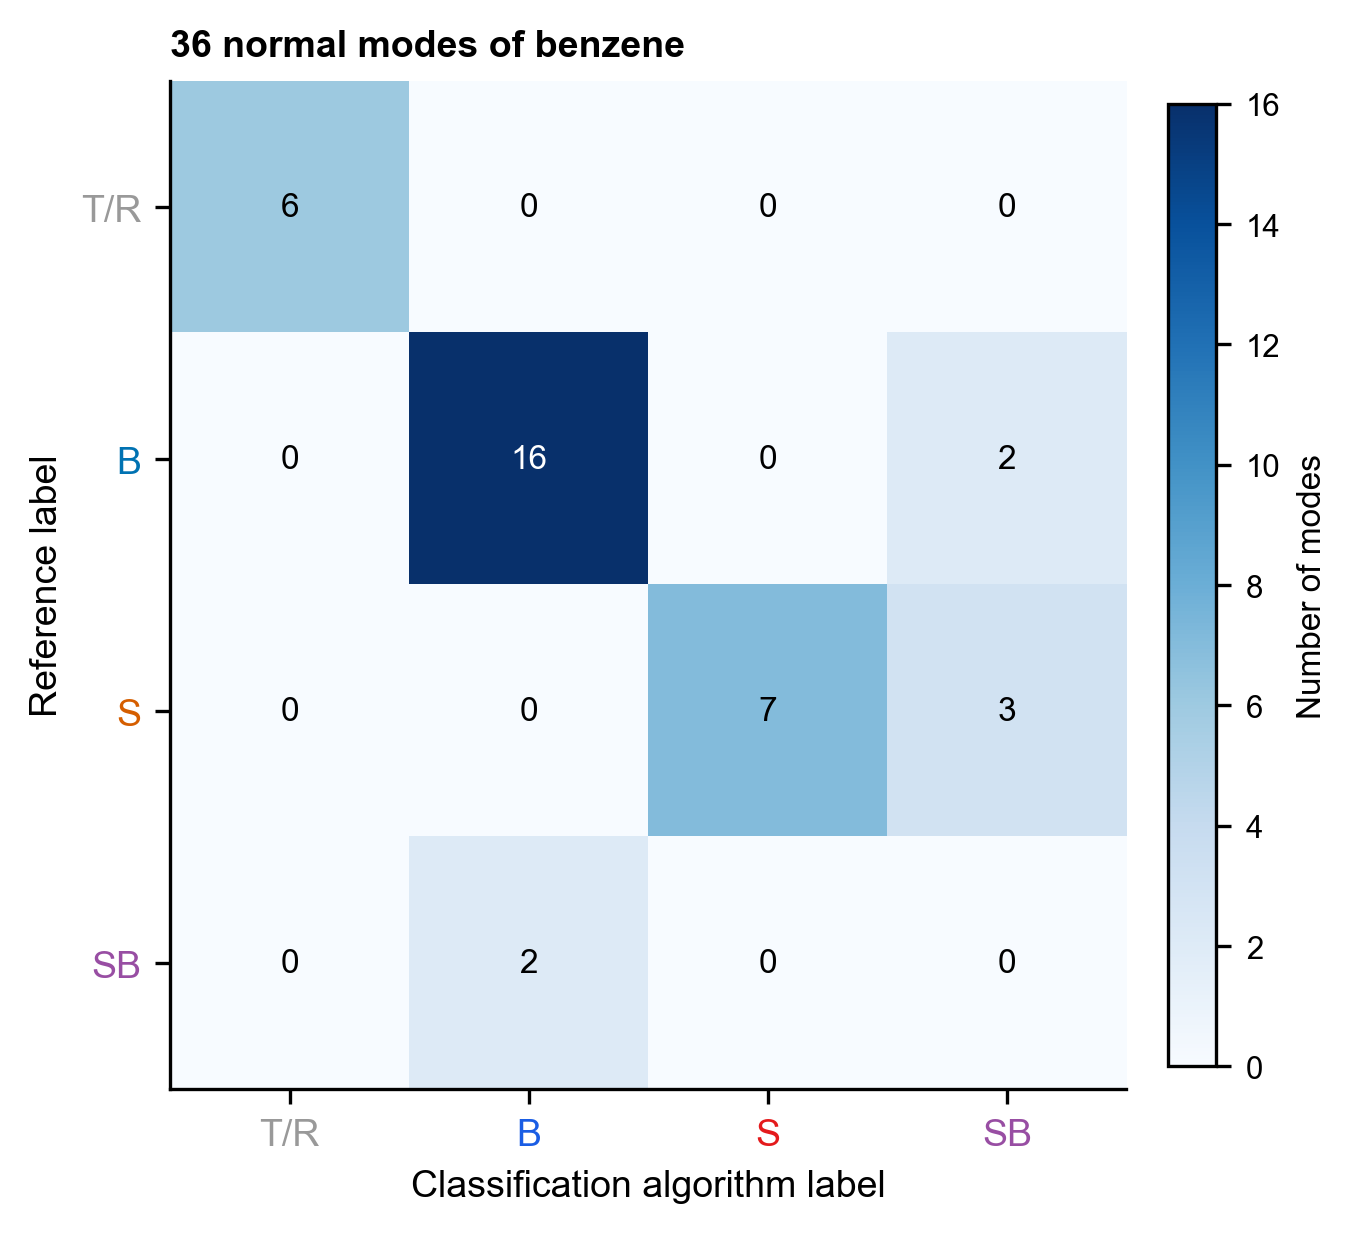
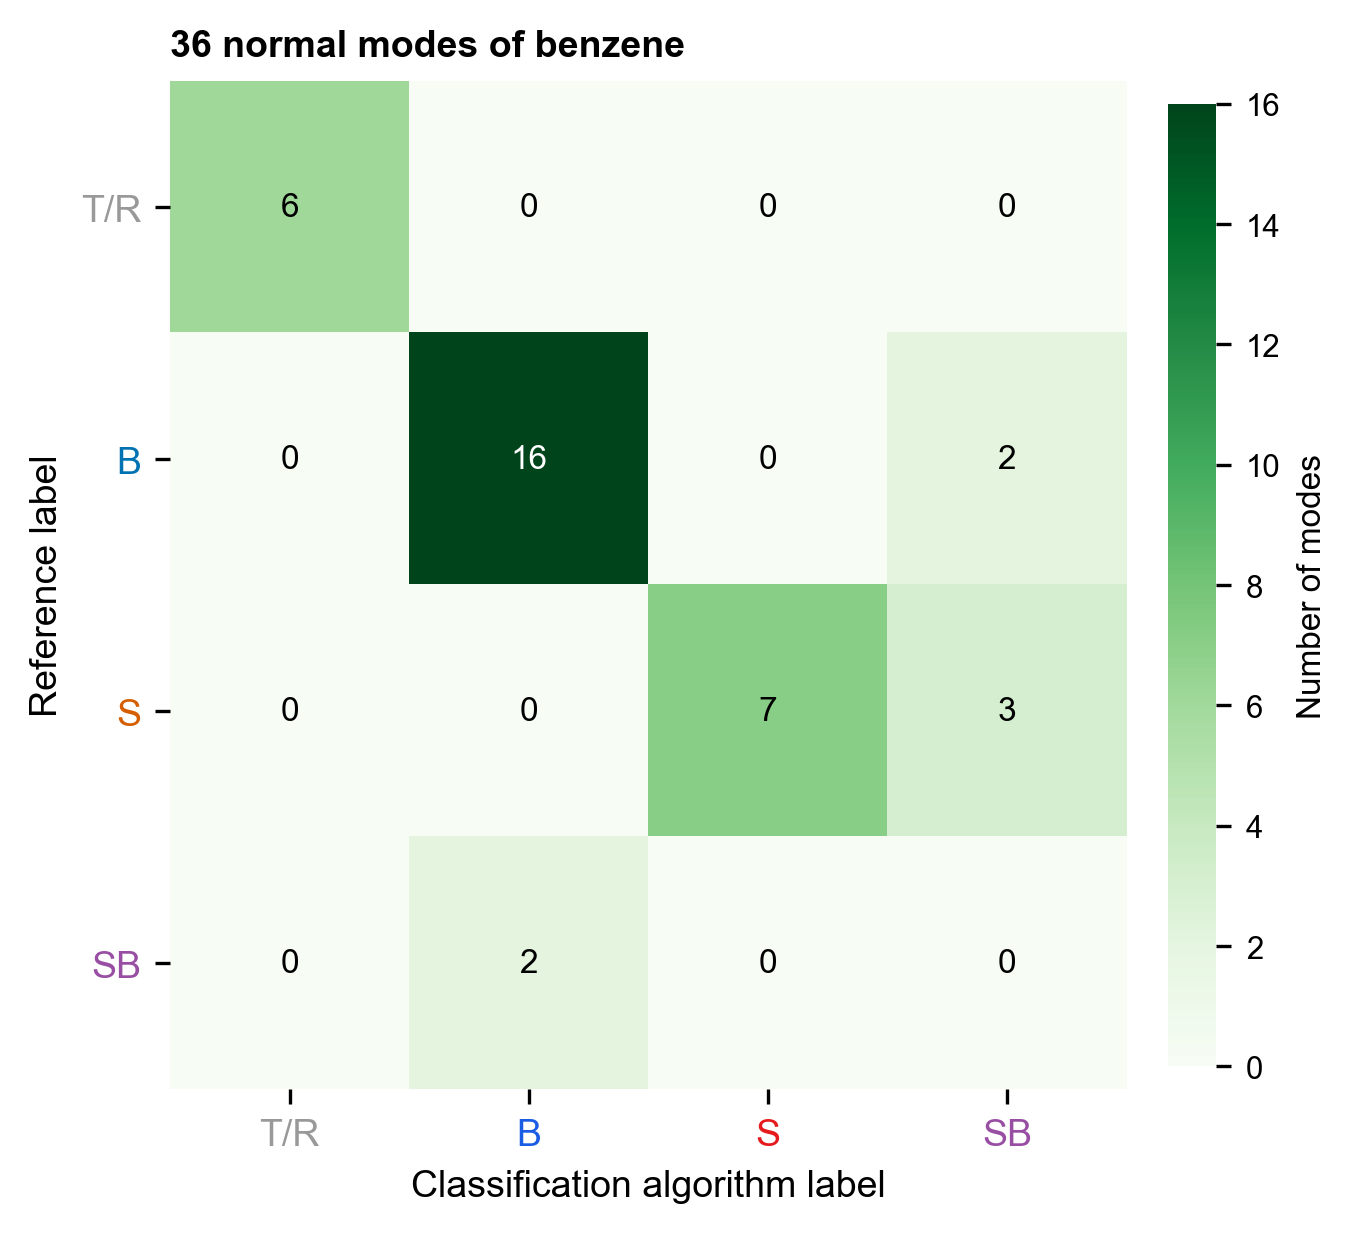
Switch confusion-matrix heatmap to green cmap; drop plot/colorbar borders
"Blues" at high cell values (#2070b4/#08306b) was nearly identical to the
bending category's own blue, used for tick labels on the SAME heatmap --
a dark cell for any high-count category risked being misread as "bending."
Green is unclaimed by any category color, so it can't collide.

Also removes the outer axes frame and colorbar outline on both confusion-
matrix figures (fig:confusion, fig:benzeneconfusion) per author request --
the cell grid itself already delineates the matrix.

Changed region(s): [[0.1237, 0.0616, 0.8969, 0.8938], [0.866, 0.8629, 0.8969, 0.8938]]

diff --git a/src/figures.py b/src/figures.py
@@ -174,7 +174,14 @@ COLORS = {
     "sens_accuracy": "#56B4E9",   # sky blue  -- accuracy curve, fig:sensitivity
     "sens_change": "#000000",     # black     -- label-change-fraction curve, fig:sensitivity
     "plateau_band": "#56B4E9",    # sky blue @ low alpha -- tau_TR plateau shading, fig:sensitivity
-    "confusion_cmap": "Blues",    # sequential, colorblind-safe -- fig:confusion heatmap
+    # sequential, colorblind-safe -- fig:confusion/fig:benzeneconfusion heatmap.
+    # CHANGED 2026-07-23 (author request) from "Blues": that map's high-value
+    # end (~#2070b4/#08306b) reads as nearly the same blue as the "bending"
+    # category color used for this SAME heatmap's tick labels, risking a cell
+    # shaded dark for a high COUNT (any category) being misread as "about
+    # bending." Green is not claimed by any category color (bend=blue,
+    # stretch=red/vermillion, mixed=purple, external=gray), so it can't collide.
+    "confusion_cmap": "Greens",
 }
 
 # Reference-label (library ground truth) / predicted-bucket -> shared
@@ -961,9 +968,17 @@ def _confusion_heatmap(ax, fig, tbl, ref_order, title, label_map=CATEGORY_LABEL,
         n_ref_ext, n_pred_ext = divider
         ax.axhline(n_ref_ext - 0.5, color="black", lw=1.6, zorder=4)
         ax.axvline(n_pred_ext - 0.5, color="black", lw=1.6, zorder=4)
+    # Borders removed (author request, 2026-07-23): imshow's own cell grid
+    # already delineates the matrix, so the outer axes frame is redundant --
+    # same for the colorbar's outline rectangle. `_style()`'s global
+    # top/right-spine removal doesn't reach bottom/left, so all 4 are turned
+    # off explicitly here rather than relying on that shared setting.
+    for spine in ax.spines.values():
+        spine.set_visible(False)
     cb = fig.colorbar(im, ax=ax, fraction=0.046, pad=0.04)
     cb.set_label("Number of modes", fontsize=8)
     cb.ax.tick_params(labelsize=7.5)
+    cb.outline.set_visible(False)
     return im
 
 
